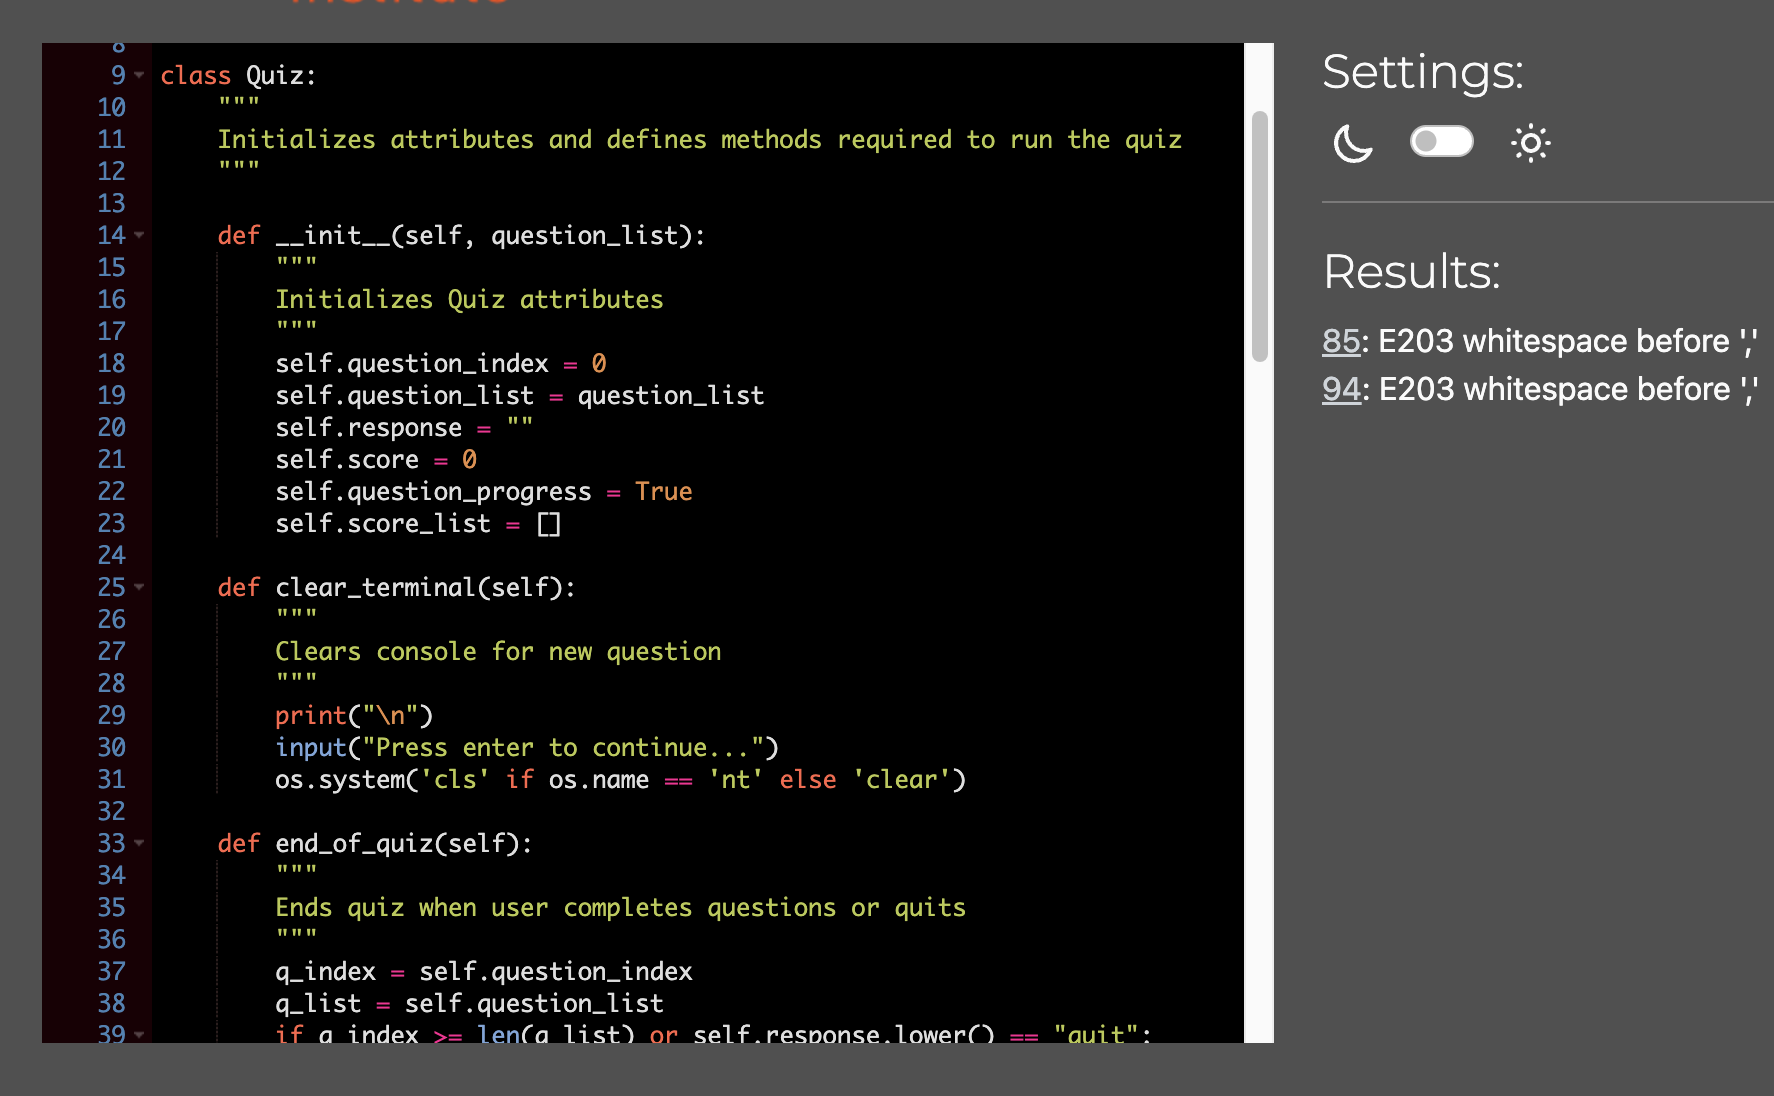
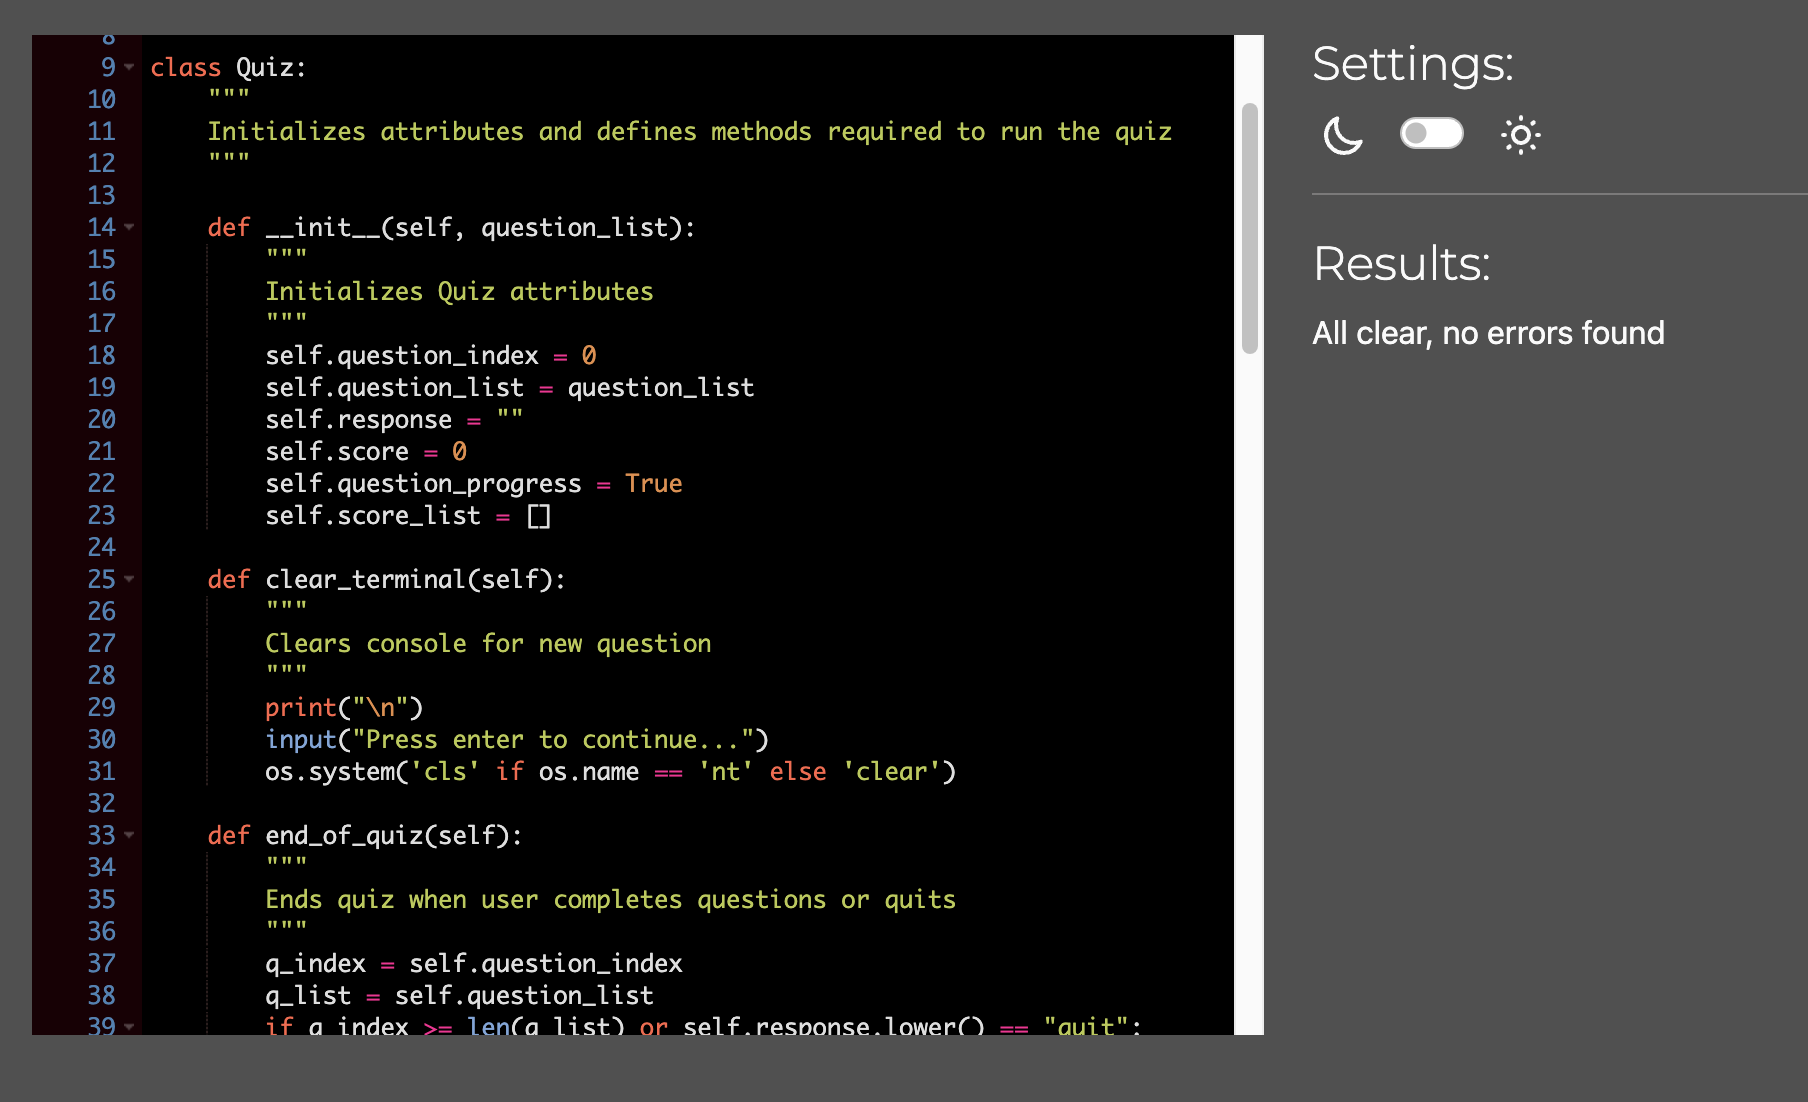
Refactor: Refactor code in line with pep8 recommendations; update readme

Changed region(s): [[0.0, 0.031, 1.0, 0.9617], [0.124, 0.1861, 0.5271, 0.7135]]

diff --git a/user_database/user_database.py b/user_database/user_database.py
@@ -23,7 +23,8 @@ SHEET = GSPREAD_CLIENT.open("quants_dojo")
 
 class UserDatabase:
     """
-    Initializes attributes and defines methods required to interact with user data spreadsheet
+    Initializes attributes and defines methods required
+    to interact with user data spreadsheet
     """
 
     def __init__(self):
@@ -32,12 +33,11 @@ class UserDatabase:
         """
         self.user_id = 0
         self.score_list = []
-        self.quiz_score = 0 
+        self.quiz_score = 0
         self.previous_score = 0
         self.previous_date_time = None
         self.first_attempt = True
-    
-    
+
     def call_user_id_list(self):
         """
         Returns user id list from owner's user database spreadsheet
@@ -47,45 +47,47 @@ class UserDatabase:
         user_id_list = [int(id) for id in user_id_list_str]
         return user_id_list
 
-        
     def calculate_final_score(self):
         """
-        Wraps user's correct/incorrect responses in a list that is used to calculate quiz score
+        Wraps user's correct/incorrect responses in a list
+        used to calculate quiz score
         """
         quiz_response_sheet = SHEET.worksheet("quiz_response")
         if len(self.score_list) != QUIZ_LENGTH:
             missing_responses = QUIZ_LENGTH - len(self.score_list)
-            console.print(f"You did not answer {missing_responses} remaining questions\n\n", style="cyan bold")
+            txt_1 = "You did not answer "
+            txt_2 = " remaining questions\n\n"
+            console.print(txt_1 + f"{missing_responses}" + txt_2,
+                          style="cyan bold")
             for i in range(missing_responses):
                 self.score_list.append(0)
-        
+
         with Progress() as progress:
-            task = progress.add_task("[blue bold]Calculating quiz score...", total=3)
-            
+            task = progress.add_task("[blue bold]Calculating quiz score...",
+                                     total=3)
+
             self.calculate_quiz_score()
-            progress.update(task, advance =1)
+            progress.update(task, advance=1)
             time.sleep(1)
 
             self.score_list.insert(0, self.user_id)
             self.score_list.append(self.quiz_score)
             self.add_date_to_quiz_record()
-            progress.update(task, advance = 1)
+            progress.update(task, advance=1)
             time.sleep(1)
 
             self.call_previous_score()
             quiz_response_sheet.append_row(self.score_list)
-            progress.update(task, advance =1)
-            time.sleep(1)        
-        
+            progress.update(task, advance=1)
+            time.sleep(1)
+
         self.print_score()
 
-
     def calculate_quiz_score(self):
-        """ 
+        """
         Calculates user's quiz score based on a list of responses
         """
         self.quiz_score = (sum(self.score_list) / QUIZ_LENGTH) * 100
-
 
     def add_date_to_quiz_record(self):
         """
@@ -94,22 +96,22 @@ class UserDatabase:
         date_time = datetime.datetime.now().strftime("%c")
         self.score_list.append(date_time)
 
-
     def call_previous_score(self):
         """
-        Checks user's latest previous score and provides feedback on performance
+        Checks user's latest previous score and
+        provides feedback on performance
         """
-        quiz_score_list_str = SHEET.worksheet("quiz_response").col_values(12)   
-        recorded_user_id_list_str = SHEET.worksheet("quiz_response").col_values(1) 
-        date_time = SHEET.worksheet("quiz_response").col_values(13)   
-        
+        quiz_score_list_str = SHEET.worksheet("quiz_response").col_values(12)
+        recorded_id_lst_str = SHEET.worksheet("quiz_response").col_values(1)
+        date_time = SHEET.worksheet("quiz_response").col_values(13)
+
         quiz_score_list_str.pop(0)
-        recorded_user_id_list_str.pop(0)
+        recorded_id_lst_str.pop(0)
         date_time.pop(0)
-        
+
         quiz_score_list = [int(score) for score in quiz_score_list_str]
-        recorded_user_id_list = [int(id) for id in recorded_user_id_list_str]
-        
+        recorded_user_id_list = [int(id) for id in recorded_id_lst_str]
+
         if self.user_id == 999:
             self.first_attempt = True
         elif self.user_id in recorded_user_id_list:
@@ -124,26 +126,41 @@ class UserDatabase:
 
     def print_score(self):
         """
-        Prints user's quiz score while calling the latest previous quiz performance for repeating users
+        Prints user's quiz score while calling the latest
+        previous quiz performance for revisiting users
         """
         if not self.first_attempt:
             print("\n")
-            console.print(" " * 5 + f":white_heavy_check_mark: You scored {self.quiz_score}% on this attempt.\n", style = "violet bold")
-            console.print(" " * 5 + f":white_heavy_check_mark: Your previous score was {self.previous_score}% on {self.previous_date_time}\n", style = "violet bold") 
-            
-            
+            txt_1 = ":white_heavy_check_mark: "
+            txt_2 = f"You scored {self.quiz_score}% in this attempt.\n"
+            console.print(" " * 5 + txt_1 + txt_2, style="violet bold")
+            txt_3 = f"Your previous score was {self.previous_score}%"
+            txt_4 = f" on {self.previous_date_time}\n"
+            console.print(" " * 5 + txt_1 + txt_3 + txt_4,
+                          style="violet bold")
             self.provide_feedback()
         else:
             print("\n")
-            console.print(Panel.fit(" " * 7+f"You scored {self.quiz_score}% on this quiz.\n\n :glowing_star: Come back to increase your test score! :glowing_star:", style = "violet bold", title = "Quiz Results", padding = 1))
+            txt_1 = f"You scored {self.quiz_score}% on this quiz.\n\n"
+            txt_2 = ":glowing_star:"
+            txt_3 = "Come back to increase your test score! "
+            console.print(Panel.fit(" " * 7 + txt_1 + txt_2 + txt_3 + txt_2,
+                                    style="violet bold",
+                                    title="Quiz Results", padding=2))
 
     def provide_feedback(self):
-        """ 
+        """
         Provides feedback based on a comparison of previous and current scores
         """
+        txt_1 = ":white_heavy_check_mark: Your score has "
         if self.quiz_score > self.previous_score:
-            console.print(" " * 5 + ":white_heavy_check_mark: Your score has increased in comparison to previous time! Well done on your improvement! :partying_face:", style="violet bold")
+            txt_2 = "increased in comparison to previous time! "
+            txt_3 = "Well done on your improvement! :partying_face:"
+            console.print(" " * 5 + txt_1 + txt_2 + txt_3, style="violet bold")
         if self.quiz_score == self.previous_score:
-            console.print(" " * 5 + ":white_heavy_check_mark: Your score has remained the same in comparison to last time. :neutral_face:", style="violet bold")
+            txt_2 = "remained the same in comparison to last time. "
+            txt_3 = ":neutral_face:"
+            console.print(" " * 5 + txt_1 + txt_2 + txt_3, style="violet bold")
         if self.quiz_score < self.previous_score:
-            console.print(" " * 5 + ":white_heavy_check_mark: Your score has decreased since last time. :fearful:", style="violet bold")
+            txt_2 = "decreased since last time. :fearful:"
+            console.print(" " * 5 + txt_1 + txt_2, style="violet bold")

diff --git a/quiz/quiz.py b/quiz/quiz.py
@@ -82,8 +82,8 @@ class Quiz:
             self.question_progress = False
 
         elif self.response.strip().lower() == "quit":
-            console.print("\nYou chose to quit the session.\n"
-                          , style="yellow bold")
+            console.print("\nYou chose to quit the session.\n",
+                          style="yellow bold")
             console.print("Hope you come back soon!\n", style="yellow bold")
             self.question_progress = False
 
@@ -91,8 +91,8 @@ class Quiz:
             print("You need to type 'true' or 'false'. Please try again.\n")
 
         else:
-            console.print("\n\nIncorrect. :cross_mark:\n\n"
-                          , style="magenta bold")
+            console.print("\n\nIncorrect. :cross_mark:\n\n",
+                          style="magenta bold")
             print(f"The answer was [bold]{correct_answer}[/bold]\n\n")
             scr = self.score
             tot = self.question_index + 1

diff --git a/README.md b/README.md
@@ -184,6 +184,9 @@ Below is a flowchart that I created before I started the coding. The final code 
 
 There are two `E203 whitespace before ','` warnings on this file, but I could not spot the issue for fixing.
 
+### user_database.py
+
+![user_database.py](./readme_assets/images/user_database_py_pep8.png)
 ## Bugs
 
 - Code written in a way that owner can choose the quiz length. In the current form, the quiz length is set to be 10 questions with a global variable. The spreadsheet created on google drive is designed to hold information for 10 questions. If the owner changes the value of the QUIZ_LENGTH variable to a different value, the functions will run, but the scores written to the spreadsheets will be labelled wrong in spreadsheet. One way to get around this issue would be to re-create a worksheet that would match the set quiz length.
